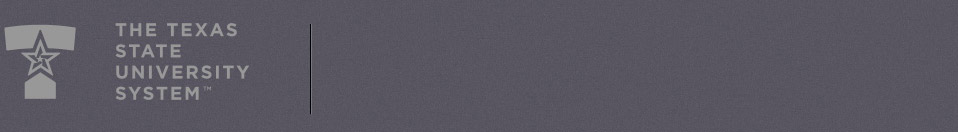
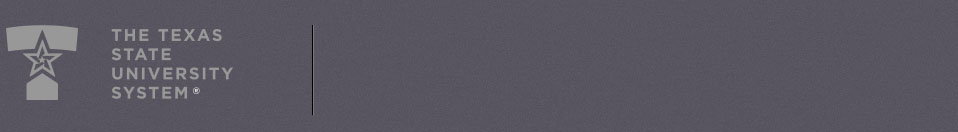
tweaking TSUS standard template until the about page is a near perfect match pixel for pixel with the existing live page

diff --git a/resources/gato-template-tsus/css/tsus-master.scss b/resources/gato-template-tsus/css/tsus-master.scss
@@ -1,9 +1,14 @@
+html {
+	font-size: 62.5%;
+}
+
 body {
 	position: relative;
 	font-family: arial, sans-serif;
 	color: #000000;
 	text-align: left;
 	background-color: white;
+	font-size: 1.3rem;
 }
 
 li {
@@ -15,17 +20,13 @@ a:hover { text-decoration: underline; }
 a:visited { color: #293e6b; }
 h3 { color: #383640 }
 
-.tsus-styledcontent ul, .tsus-styledcontent ol {
-	list-style-position: inside;
-}
-
 #breadcrumbs, .breadcrumbs {
 	width: 958px;
 	margin: 0px auto;
 	padding: 6px 0px;
 	&, a {
 		color: #8f847a;
-		font-size: 10px;
+		font-size: 1.0rem;
 	}
 	a {
 		white-space: nowrap;
@@ -38,13 +39,14 @@ h3 { color: #383640 }
 	margin: 0px auto;
 	padding-top: 51px;
 	padding-bottom: 15px;
+	overflow: hidden;
 }
 
 .gato-navcolumn {
 	position: relative;
 	float: left;
 	width: 170px;
-	font-size: 13px;
+	font-size: 1.3rem;
 	color: #2B2B2B;
 	text-align: left;
 	overflow: visible;
@@ -59,7 +61,7 @@ h3 { color: #383640 }
 		overflow: hidden;
 		&.nav-without-title a {
 			text-transform: uppercase;
-			font-size: 15px;
+			font-size: 1.5rem;
 			font-weight: bold;
 		}
 	}
@@ -97,10 +99,10 @@ h3 { color: #383640 }
 	padding-bottom: 190px;
 	width: 180px;
 	border-radius: 3px;
-	font-size: 12px;
-	line-height: 20px;
+	font-size: 1.2rem;
 	background: url(../images/rightbar-logo.png) no-repeat center bottom;
 	&.txst-styledcontent {
+		line-height: 2.0rem;
 		h1, h2, h3, h4, h5, h6 {
 			text-transform: uppercase;
 			color: #b92c26;
@@ -109,12 +111,12 @@ h3 { color: #383640 }
 			font-weight: bold;
 			font-family: arial, sans-serif;
 		}
-		h1 { font-size: 20px; }
-		h2 { font-size: 18px; }
-		h3 { font-size: 15px; }
-		h4 { font-size: 13px; }
-		h5 { font-size: 12px; }
-		h6 { font-size: 11px; }
+		h1 { font-size: 2.0rem; }
+		h2 { font-size: 1.8rem; }
+		h3 { font-size: 1.5rem; }
+		h4 { font-size: 1.3rem; }
+		h5 { font-size: 1.2rem; }
+		h6 { font-size: 1.1rem; }
 		ul {
 			margin: 0;
 			padding: 0;
@@ -155,7 +157,7 @@ h3 { color: #383640 }
 /* end no-sidebar style changes */
 
 .tsus-contentcolumn div#txst-faq-buttons {
-	font-size: .8em;
+	font-size: 1.0rem;
 	font-style: italic;
 	margin-bottom: 10px;
 }
@@ -165,7 +167,7 @@ h3 { color: #383640 }
 	left: 15px;
 	top: -54px;
 	font-family: georgia, serif;
-	font-size: 38px;
+	font-size: 3.8rem;
 	margin: 0px;
 	line-height: 44px;
 	color: #383640;
@@ -184,7 +186,7 @@ h3 { color: #383640 }
 	width: 958px;
 	margin: 0px auto;
 	clear: both;
-	font-size: 11px;
+	font-size: 1.1rem;
 	line-height: 18px;
 	color: #CCCCCC;
 	background: #585560 url(../images/footer-top.jpg) no-repeat top left;
@@ -201,10 +203,14 @@ h3 { color: #383640 }
 .tsus-footer-block {
 	float: left;
 	padding: 0px 15px 0px 15px;
+	margin: 0;
 	height: 100%;
 	background: url(../images/footer-divider.png) no-repeat top left;
-	overflow-y: auto;
-	overflow-x: hidden;
+	overflow: hidden;
+	body.admin & {
+		overflow-y: auto;
+		overflow-x: hidden;
+	}
 	max-width: 280px;
 }
 .tsus-footer-block.tsus-footer-subpages {
@@ -223,7 +229,7 @@ h3 { color: #383640 }
     width: 603px;
     margin: 0px auto;
     clear: both;
-    font-size: 11px;
+    font-size: 1.1rem;
     line-height: 20px;
     color: #CCCCCC;
     background: #585560 url(../images/footer-bottom.jpg) no-repeat top left;
@@ -277,7 +283,7 @@ h3 { color: #383640 }
 .txst-contentarea table.data th {
 	background-color: #383640;
 	color: #FFFFFF;
-	font-size: 15px;
+	font-size: 1.5rem;
 }
 
 .txst-contentarea table.table-linesh td {
@@ -303,7 +309,7 @@ h3 { color: #383640 }
 	padding-top: 10px;
 	background-color: #383640;
 	color: #FFFFFF;
-	font-size: 15px;
+	font-size: 1.5rem;
 }
 .txst-contentarea table.data td, .txst-contentarea table.data th {
 	padding: 5px;
@@ -334,7 +340,7 @@ h3 { color: #383640 }
 
 .tsus-rightcolumn .txst-rss-item h3 {
 	text-transform: none;
-	font-size: 13px;
+	font-size: 1.3rem;
 }
 
 /* admin rules */

diff --git a/resources/gato-template-tsus/css/tsus-ddmenu.scss b/resources/gato-template-tsus/css/tsus-ddmenu.scss
@@ -9,7 +9,9 @@
 
 a.ddmenu-menubaritem {
 	color: #FFFFFF;
-	font-size: 13px;
+	font-size: 1.3rem;
+	padding-left: 15px;
+	padding-right: 15px;
 	text-transform: uppercase;
 	text-decoration: none;
 }
@@ -34,7 +36,7 @@ a.ddmenu-menubaritem:visited {
 .ddmenu-menu a {
 	text-decoration: none;
 	color: #383640;
-	font-size: 13px;
+	font-size: 1.3rem;
 	border-top: 1px solid #998e84;
 	width: 225px;
 }

diff --git a/resources/gato-template-tsus/css/tsus-styledcontent.scss b/resources/gato-template-tsus/css/tsus-styledcontent.scss
@@ -3,9 +3,13 @@
  */
 
 .txst-styledcontent {
+  line-height: 1.8rem;
+  p {
+    margin: 1rem 0;
+  }
 }
 
-.txst-styledcontent h1, .txst-styledcontent h2, .txst-styledcontent h3, 
+.txst-styledcontent h1, .txst-styledcontent h2, .txst-styledcontent h3,
 .txst-styledcontent h4, .txst-styledcontent h5, .txst-styledcontent h6 {
 	color: #383640;
 	font-weight: normal;

diff --git a/resources/gato-template-tsus/js/fixlineup.js b/resources/gato-template-tsus/js/fixlineup.js
@@ -1,5 +1,5 @@
 document.observe('dom:loaded', function () {
-	var down = $$('.txst-contentarea')[0];
+	var down = $$('.tsus-contentcolumn .gato-component')[0];
 	while (down && (down = down.down())) {
 		down.setStyle({marginTop: '0px', paddingTop: '0px'});
 	}

diff --git a/resources/gato-template-tsus/css/tsus-banner.scss b/resources/gato-template-tsus/css/tsus-banner.scss
@@ -89,6 +89,7 @@ ul.linkmenutop li:last-child a {
 	box-shadow: inset #988d84 1px 1px 2px;
 	border-radius: 3px;
 	color: #333333;
+	font-size: 1.1rem;
 }
 
 #tsus-searchform-searchbutton {
